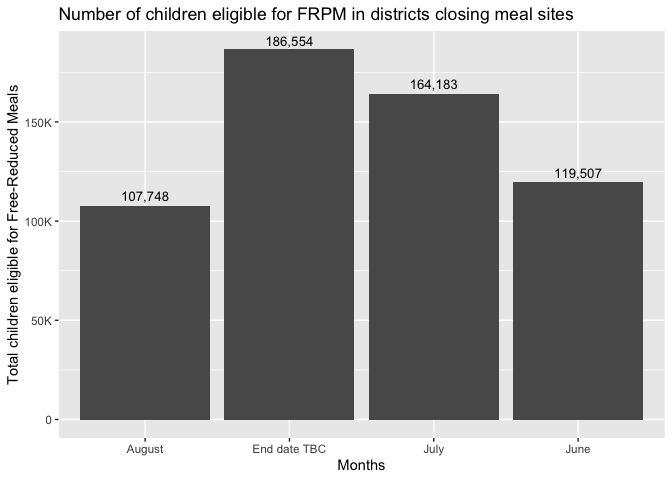
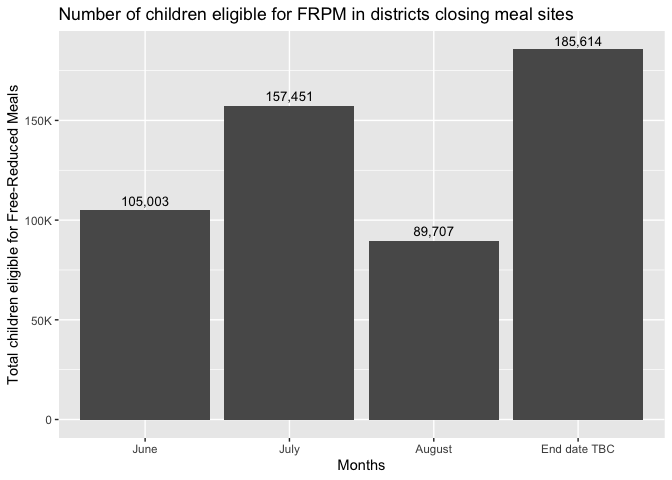
Updated FRPM analysis

diff --git a/Data_analysis/School_meal_Pandemic_EBT.md b/Data_analysis/School_meal_Pandemic_EBT.md
@@ -1,8 +1,11 @@
 School\_meals\_report
 ================
-Chris LeBoa
-6/12/2020
+Chris LeBoa & Joyce Tagal
+2020-06-28
 
+  - [Overview](#overview)
+  - [Data sources and Assumptions](#data-sources-and-assumptions)
+  - [Load Packages](#load-packages)
   - [Read in Data](#read-in-data)
   - [Cleaning data](#cleaning-data)
   - [Basic counts of schools still
@@ -11,11 +14,48 @@ Chris LeBoa
         details](#schools-pebt-information-details)
       - [Schools ending summer
         distribution](#schools-ending-summer-distribution)
-  - [Join with CalFresh](#join-with-calfresh)
   - [Join with FRPM](#join-with-frpm)
       - [Clean district names](#clean-district-names)
+      - [Checking for intersection between
+        datasets](#checking-for-intersection-between-datasets)
+  - [Averaging district population across school
+    closures](#averaging-district-population-across-school-closures)
+  - [Conclusion and GGPlot](#conclusion-and-ggplot)
 
-\#Load Packages
+## Overview
+
+This document analyzes the number of students eligible for Free and
+Reduced Price Meals (FRPM) that will be affected by Bay Area school meal
+site closures over the summer period of June-August 2020. We find that
+school districts closing in early months of the summer (June and July
+2020) have a higher than average percentage (66%) of students who are
+FRPM-eligible. In June and July 2020, the closing of school sites will
+affect over 250,000 FRPM eligible students.
+
+## Data sources and Assumptions
+
+This document uses two main data sources:
+
+  - [CA Dept of Ed](https://www.cde.ca.gov/ds/sd/sd/filessp.asp) Free
+    and Reduced Price Meal data for school year 2019-20
+  - [BayAreaCommunity.org](https://www.bayareacommunity.org/#/) school
+    meal sites info, that has been updated on a weekly basis from March
+    2020 to present.
+
+In this analysis we make several assumptions:
+
+  - Students and their families are most able to access meal sites
+    within their school districts. This assumption may not hold for
+    denser, urban areas where a student may access meal sites in a
+    neighboring school district. However, given that a not-insignificant
+    number of school districts only allow district students to access
+    the school meals, this may hold on average.
+  - In averaging numbers of FRPM students across a district, we take a
+    simple average of FRPM students across schools within the district.
+    This assumes an equal distribution of FRPM across schools, and a
+    similar total enrollment across schools.
+
+## Load Packages
 
 ## Read in Data
 
@@ -178,7 +218,7 @@ school_meals %>%
     ## # A tibble: 2 x 2
     ##   pebt_info_yn     n
     ##   <chr>        <int>
-    ## 1 0              387
+    ## 1 0              409
     ## 2 1              351
 
 ``` r
@@ -199,7 +239,7 @@ school_meals %>%
     ##  7 https://www.mynhusd.org/apps/news/article/1233836                            
     ##  8 https://twitter.com/nusdschoolnews                                           
     ##  9 https://4.files.edl.io/acea/05/19/20/175812-db1f27cc-de08-4cfa-863c-b57b0501…
-    ## 10 <NA>                                                                         
+    ## 10 0                                                                            
     ## # … with 45 more rows
 
 ``` r
@@ -354,53 +394,23 @@ school_meals %>%
     ## 14 Sonoma             
     ## 15 Stanislaus
 
-## Join with CalFresh
-
-``` r
-# cflink <- "/Users/joycetagal/Google Drive (jtagal@stanford.edu)/Bay Area Community Resources - Mega map/Data/CalFresh/last_365_by_zip_060120.csv"
-# 
-# cf <- read_csv(cflink)
-# 
-# cf
-```
-
 ## Join with FRPM
 
 ``` r
-frlink <- "/Users/joycetagal/GitHub/jayktee/bay-area-resources/bay_area_resources/data/frpm1920.xlsx"
+frlink <- here::here("data/frpm1920.xlsx")
 
 frpm <- 
   readxl::read_xlsx(frlink, sheet = 2, skip = 1) %>% 
   rename_all(.funs = ~str_to_lower(.) %>% str_replace_all(., " ", "_") %>% str_replace_all(., "[()\\n//-]", "") %>% str_replace(., "%", "pct"))
 
-frpm
+frpm %>% 
+  summarize(sum = sum(frpm_count_k12))
 ```
 
-    ## # A tibble: 10,592 x 28
-    ##    academic_year county_code district_code school_code county_name district_name
-    ##    <chr>         <chr>       <chr>         <chr>       <chr>       <chr>        
-    ##  1 2019-2020     01          10017         0112607     Alameda     Alameda Coun…
-    ##  2 2019-2020     01          10017         0123968     Alameda     Alameda Coun…
-    ##  3 2019-2020     01          10017         0124172     Alameda     Alameda Coun…
-    ##  4 2019-2020     01          10017         0125567     Alameda     Alameda Coun…
-    ##  5 2019-2020     01          10017         0129403     Alameda     Alameda Coun…
-    ##  6 2019-2020     01          10017         0130401     Alameda     Alameda Coun…
-    ##  7 2019-2020     01          10017         0130419     Alameda     Alameda Coun…
-    ##  8 2019-2020     01          10017         0131581     Alameda     Alameda Coun…
-    ##  9 2019-2020     01          10017         0136101     Alameda     Alameda Coun…
-    ## 10 2019-2020     01          10017         0136226     Alameda     Alameda Coun…
-    ## # … with 10,582 more rows, and 22 more variables: school_name <chr>,
-    ## #   district_type <chr>, school_type <chr>, educational_option_type <chr>,
-    ## #   `nslp_\rprovision_\rstatus` <chr>, `charter_\rschool_\ryn` <chr>,
-    ## #   `charter_\rschool_\rnumber` <chr>, `charter_\rfunding_\rtype` <chr>,
-    ## #   irc <chr>, low_grade <chr>, high_grade <chr>, enrollment_k12 <dbl>,
-    ## #   free_meal_count_k12 <dbl>, percent_pct_eligible_free_k12 <dbl>,
-    ## #   frpm_count_k12 <dbl>, percent_pct_eligible_frpm_k12 <dbl>,
-    ## #   `enrollment_\rages_517` <dbl>, `free_meal_count_\rages_517` <dbl>,
-    ## #   `percent_pct_eligible_free_\rages_517` <dbl>,
-    ## #   `frpm_count_\rages_517` <dbl>,
-    ## #   `percent_pct_\religible_frpm_\rages_517` <dbl>,
-    ## #   `calpads_fall_1_\rcertification_status` <chr>
+    ## # A tibble: 1 x 1
+    ##       sum
+    ##     <dbl>
+    ## 1 3654943
 
 ``` r
 frpm %>% 
@@ -481,7 +491,7 @@ school_meals_clean
     ## #   verified_by <chr>, meals_served <chr>, internal_notes <chr>,
     ## #   called_school_district <chr>, call_date <chr>, end_month <chr>
 
-Checking for intersection between datasets
+### Checking for intersection between datasets
 
 ``` r
 intersect(
@@ -546,65 +556,73 @@ frpm_districts %>% summarise(total_enroll = sum(total_enroll))
     ##          <dbl>
     ## 1      1117408
 
-``` r
-# school_meals_clean %>%
-#   left_join(
-#     frpm_districts,
-#     by = "district_name"
-#   ) %>% 
-#   group_by(district_name) %>% 
-#   summarize(total_enroll = sum(total_enroll), .groups = "drop_last")
+## Averaging district population across school closures
 
+Assuming an equal distribution of density across counties, we assume an
+average of students on free meals and free and reduced price meals
+across closing schools.
+
+``` r
+level_key <- c("June", "July", "August", "End date TBC")
 school_meals_average <- 
   school_meals_clean %>%
   group_by(district_name) %>% 
-  count(end_month, name = "num_schools") %>% 
+  count(end_month, name = "num_schools_closing") %>% 
+  group_by(district_name) %>% 
+  arrange(district_name) %>% 
+  add_tally(num_schools_closing, name = "sum_schools") %>% 
   left_join(
     frpm_districts,
     by = "district_name"
   ) %>% 
+  mutate(
+    frac_enroll = num_schools_closing / sum_schools * total_enroll,
+    frac_free_meal_count_k12 = num_schools_closing / sum_schools * free_meal_count_k12,
+    frac_frpm_count_k12 = num_schools_closing / sum_schools * frpm_count_k12
+  ) %>% 
   group_by(end_month) %>%
   summarize(
-    num_schools = sum(num_schools),
-    total_enroll = sum(total_enroll),
-    total_free_eligible = sum(free_meal_count_k12),
-    total_frpm_eligible = sum(frpm_count_k12),
+    num_districts = n_distinct(district_name),
+    num_schools = sum(num_schools_closing),
+    sum_schools = sum(sum_schools),
+    total_frac_enroll = sum(frac_enroll),
+    total_frac_free_eligible = sum(frac_free_meal_count_k12),
+    total_frac_frpm_eligible = sum(frac_frpm_count_k12),
   .groups = "keep") %>% 
   mutate(
-    percent_eligible_free_k12 = total_free_eligible / total_enroll,
-    percent_eligible_frpm_k12 = total_frpm_eligible / total_enroll
+    percent_eligible_free_k12 = total_frac_free_eligible / total_frac_enroll,
+    percent_eligible_frpm_k12 = total_frac_frpm_eligible / total_frac_enroll
   ) %>% 
-  pivot_longer(
-    cols = c(percent_eligible_free_k12, percent_eligible_frpm_k12),
-    names_to = "type",
-    values_to = "percent_eligible"
-  ) 
+  mutate(end_month = factor(end_month, levels = level_key))
+
 
 school_meals_average
 ```
 
-    ## # A tibble: 8 x 7
+    ## # A tibble: 4 x 9
     ## # Groups:   end_month [4]
-    ##   end_month num_schools total_enroll total_free_elig… total_frpm_elig… type 
-    ##   <chr>           <int>        <dbl>            <dbl>            <dbl> <chr>
-    ## 1 August             92       260319            92352           107748 perc…
-    ## 2 August             92       260319            92352           107748 perc…
-    ## 3 End date…         180       406419           160545           186554 perc…
-    ## 4 End date…         180       406419           160545           186554 perc…
-    ## 5 July              127       251314           145039           164183 perc…
-    ## 6 July              127       251314           145039           164183 perc…
-    ## 7 June              105       296637           100389           119507 perc…
-    ## 8 June              105       296637           100389           119507 perc…
-    ## # … with 1 more variable: percent_eligible <dbl>
+    ##   end_month num_districts num_schools sum_schools total_frac_enro…
+    ##   <fct>             <int>       <int>       <int>            <dbl>
+    ## 1 August               23          92         115          207856.
+    ## 2 End date…            39         180         182          404852.
+    ## 3 July                 22         127         136          238852.
+    ## 4 June                 26         105         124          265848.
+    ## # … with 4 more variables: total_frac_free_eligible <dbl>,
+    ## #   total_frac_frpm_eligible <dbl>, percent_eligible_free_k12 <dbl>,
+    ## #   percent_eligible_frpm_k12 <dbl>
+
+## Conclusion and GGPlot
+
+The analysis shows that the 22 school districts which are closing school
+sites in July have a higher-than-average percentage of children on FRPM
+(\~65.9%).
 
 ``` r
-## DO NOT USE YET
 school_meals_average %>% 
-  filter(type == "percent_eligible_frpm_k12") %>% 
-  ggplot(aes(x = end_month, y = percent_eligible)) +
+  ggplot(aes(x = end_month, y = percent_eligible_frpm_k12)) +
   geom_col() +
   ggrepel::geom_text_repel(
-    aes(label = scales::percent(percent_eligible)),
+    aes(label = scales::percent(percent_eligible_frpm_k12)),
     direction = "y",
     nudge_y = 0.01,
     size = 3.5
@@ -625,11 +643,10 @@ ggsave("percentage_districts.png", height = 5, width = 7)
   
 
 school_meals_average %>% 
-  filter(type == "percent_eligible_frpm_k12") %>% 
-  ggplot(aes(x = end_month, y = total_frpm_eligible)) +
+  ggplot(aes(x = end_month, y = total_frac_frpm_eligible)) +
   geom_col() +
   ggrepel::geom_text_repel(
-    aes(label = scales::comma(total_frpm_eligible)),
+    aes(label = scales::comma(total_frac_frpm_eligible)),
     direction = "y",
     nudge_y = 3,
     size = 3.5
